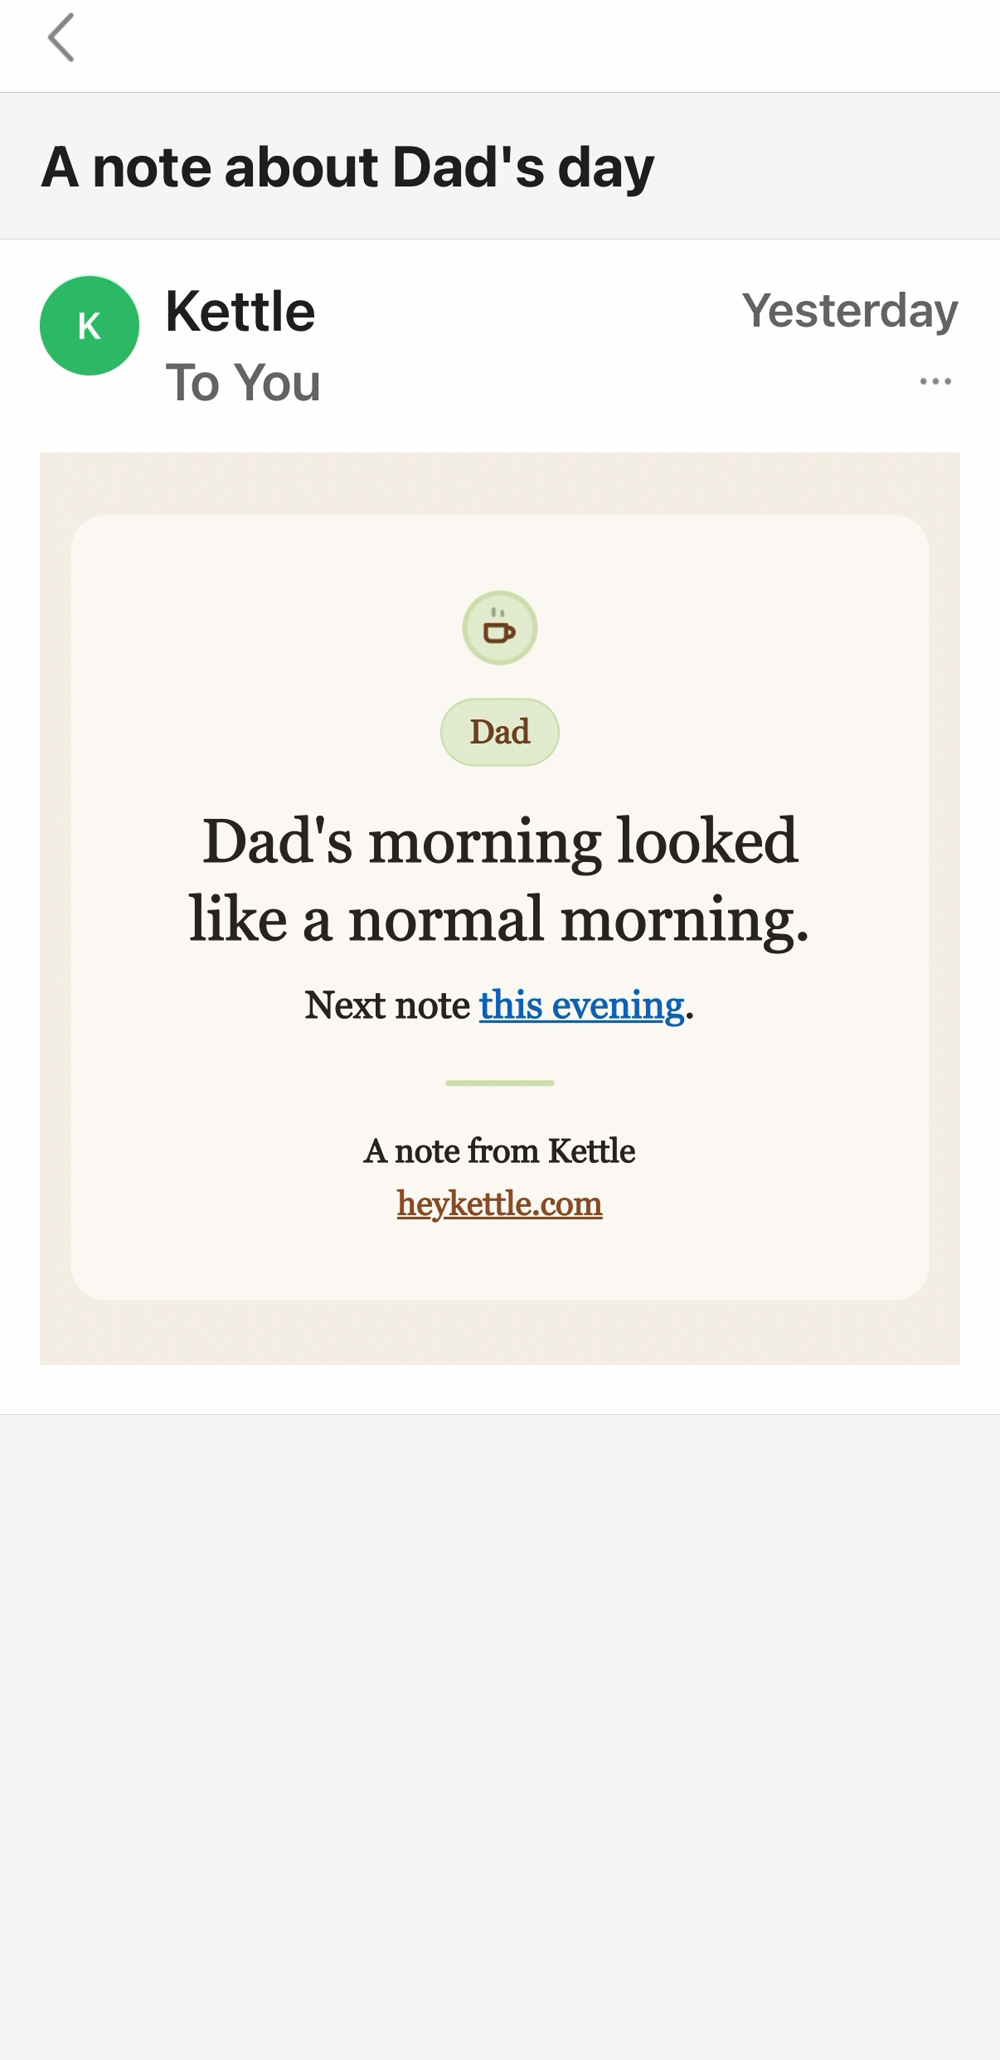
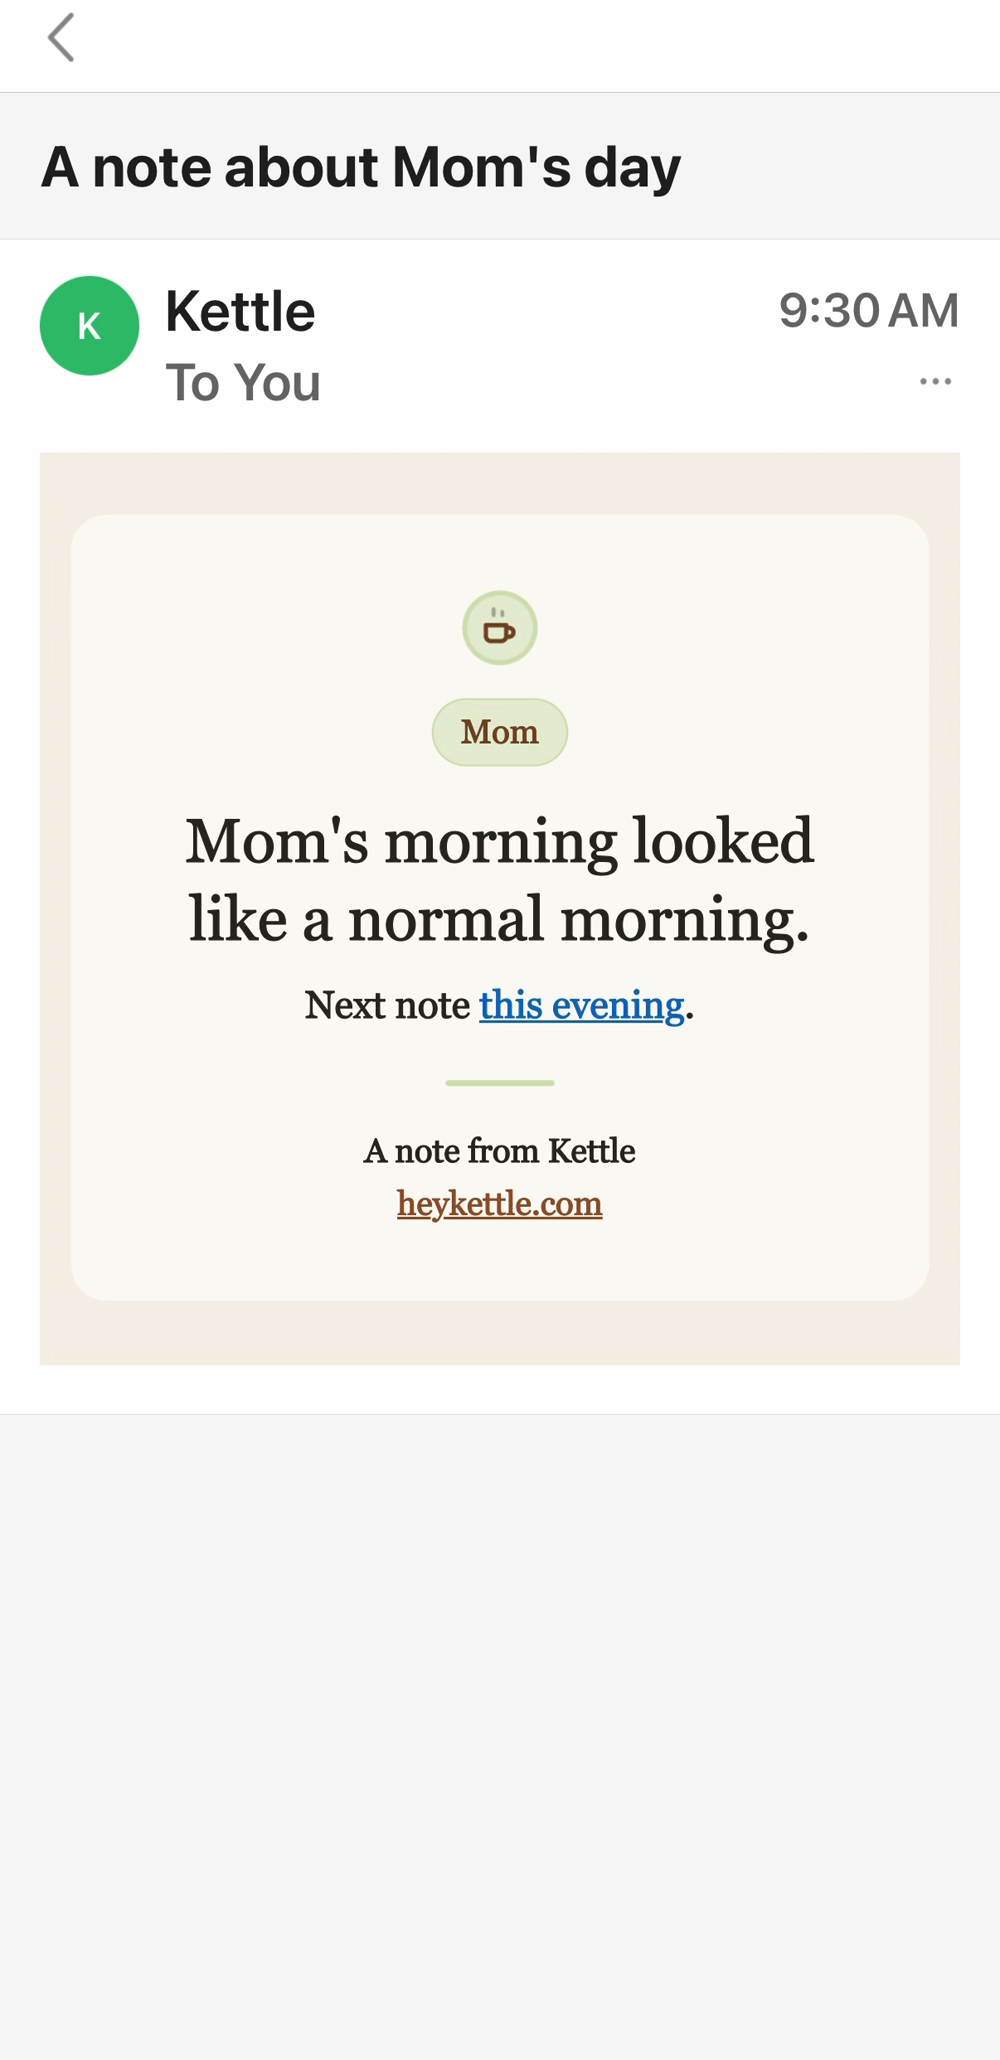
launch video: Mom's morning note in shots 2 and 3, in place of Dad's
The film is about checking on Mom, so the note the push-in lands on and the
email shot 3 plays should be hers. recordings/mom-note.mp4 was recorded the same
way as Dad's (same app, zoom and layout, no scroll or notification), so R1 keeps
its crop, start and timing and only its source changes; the phone's screen
still is remade with the same recipe. It is the morning note ("Next note this
evening."), which the founder chose to use as it is. Timing, voice, music and
every other shot are unchanged; the audio is bit-identical.

diff --git a/marketing/launch-video/shots.py b/marketing/launch-video/shots.py
@@ -143,8 +143,10 @@ RECORDINGS = {
     "R4z": {"src": "R4", "crop": (960, 2150), "xcrop": (40, 1166), "cuts": [(1.0, None, 1)],
             "box": (970, 90, 900, 900)},
     # R1: one static frame of the Outlook email; keep the message, drop the status bar, Outlook's
-    # back arrow, and its reply bar and tab bar (a coloured assistant icon sits there).
-    "R1": {"crop": (300, 1790), "cuts": [(0.3, None, 1)]},
+    # back arrow, and its reply bar and tab bar (a coloured assistant icon sits there). Since v7
+    # (founder, 2026-09-28) it plays Mom's morning note (recordings/mom-note.mp4, recorded the
+    # same way), not Dad's (R1.MP4); same crop, start and timing.
+    "R1": {"src": "mom-note", "crop": (300, 1790), "cuts": [(0.3, None, 1)]},
     "R2": {"crop": (410, None), "cuts": [(1.5, None, 1)]},  # founder: trim the first 1.5 s
     # R3, R4: the first 0.9 s is the home screen and the app opening (founder: no personal apps).
     "R3": {"crop": (410, None), "cuts": [(1.0, None, 1)]},

diff --git a/marketing/launch-video/blender/phones.py b/marketing/launch-video/blender/phones.py
@@ -39,7 +39,8 @@ def build(shot: str) -> None:
     P.key(aim, "location", 1, AIM)
     P.key(aim, "location", ARC_END, AIM)
     if shot == "03":
-        # Just before the push, the green phone shows the morning-note email (a frame of R1).
+        # Just before the push, the green phone shows the morning-note email (a frame of shot 3's
+        # recording, Mom's note: -ss 1.0, crop=1206:1940:0:190, scale=1000:-2, padded to 2060).
         P.screen_sequence("phone-b", [None, "assets/screens/note.png"], [(1, 0), (ARC_END - 6, 1)])
         P.key(cam, "location", PUSH_END, PUSH_CAM)
         P.key(aim, "location", PUSH_END, PUSH_AIM)

diff --git a/marketing/launch-video/SCRIPT.md b/marketing/launch-video/SCRIPT.md
@@ -37,8 +37,8 @@ videos (TASKS.md).
 | # | Time (s) | Picture | On-screen words (exact) | Voice line | Length (s) | Hold (s) |
 |---|---|---|---|---|---|---|
 | 1 (01) | 0.0 to 2.5 | Painted: the paper map, the city and Mom and Dad's house both in frame, a slight drift | Mom and Dad live far away. | 1 | 2.50 | 2.3 |
-| 2 (02) | 2.5 to 11.1 | Painted: the two phones, the camera turning slowly over them; the app icon, "Kettle" and the line above; then a push into the green phone's screen, which shows the morning note, held 0.75 s | Kettle / Know Mom's okay, between the calls. | 2 | 8.55 | 2.6 |
-| 3 (04) | 11.1 to 14.8 | Screen R1: the morning note email (the push-in dissolves into it) | Twice a day, / the family gets / a short note. | 3 | 3.70 | 3.7 |
+| 2 (02) | 2.5 to 11.1 | Painted: the two phones, the camera turning slowly over them; the app icon, "Kettle" and the line above; then a push into the green phone's screen, which shows Mom's morning note, held 0.75 s | Kettle / Know Mom's okay, between the calls. | 2 | 8.55 | 2.6 |
+| 3 (04) | 11.1 to 14.8 | Screen R1: Mom's morning note email (recordings/mom-note.mp4; the push-in dissolves into it) | Twice a day, / the family gets / a short note. | 3 | 3.70 | 3.7 |
 | 4 (05) | 14.8 to 18.4 | Screen R2: the Today card, full screen (v7: the zoom is out) | The app shows when / Kettle last heard / from her. | 4 | 3.70 | 3.7 |
 | 5 (07) | 18.4 to 24.4 | Painted: the kitchen; the camera pushes in to Mom's phone and the real text message, holds, then pulls back as her 👍 reply lands (a soft tick) and the paper thumbs up rises (a light pop); the fixed kettle on its burner | Morning looks different? / Kettle asks her first. | 5 | 5.90 | 2.6 |
 | 6 (08) | 24.4 to 27.7 | Screen R3: Memory, notes and a reply | Notes and replies, / in the family's / own words. | 6 | 3.35 | 3.1 |

diff --git a/marketing/launch-video/STORYBOARD.md b/marketing/launch-video/STORYBOARD.md
@@ -10,7 +10,7 @@ sounds in the kitchen, and the stillness after the thumbs up trimmed.
 |---|---|---|---|
 | 1 (01) | 0.0 to 2.5 | The paper map, city and house in frame | Blender `map.py` (01) |
 | 2 (02) | 2.5 to 11.1 | The two phones turning slowly under the app icon and the line; the push into the green phone's screen, showing the note; a 0.75 s hold | Blender `phones.py` (03, frames 1 to 266); caption `render.brand_caption`; screen `assets/screens/note.png` |
-| 3 (04) | 11.1 to 14.8 | The morning note email | Recording R1 |
+| 3 (04) | 11.1 to 14.8 | Mom's morning note email | Recording R1 (mom-note.mp4) |
 | 4 (05) | 14.8 to 18.4 | The Today card, zooming onto Mom's card | Recording R2; `shots.ZOOM` |
 | 5 (07) | 18.4 to 24.4 | The kitchen: the push to the text message and back, her reply, the thumbs up; the fixed kettle | Blender `kitchen.py` (07c, frames 1 to 177); screen `sms_screens.py`; sounds `sfx.py` |
 | 6 (08) | 24.4 to 27.7 | Memory | Recording R3 |
